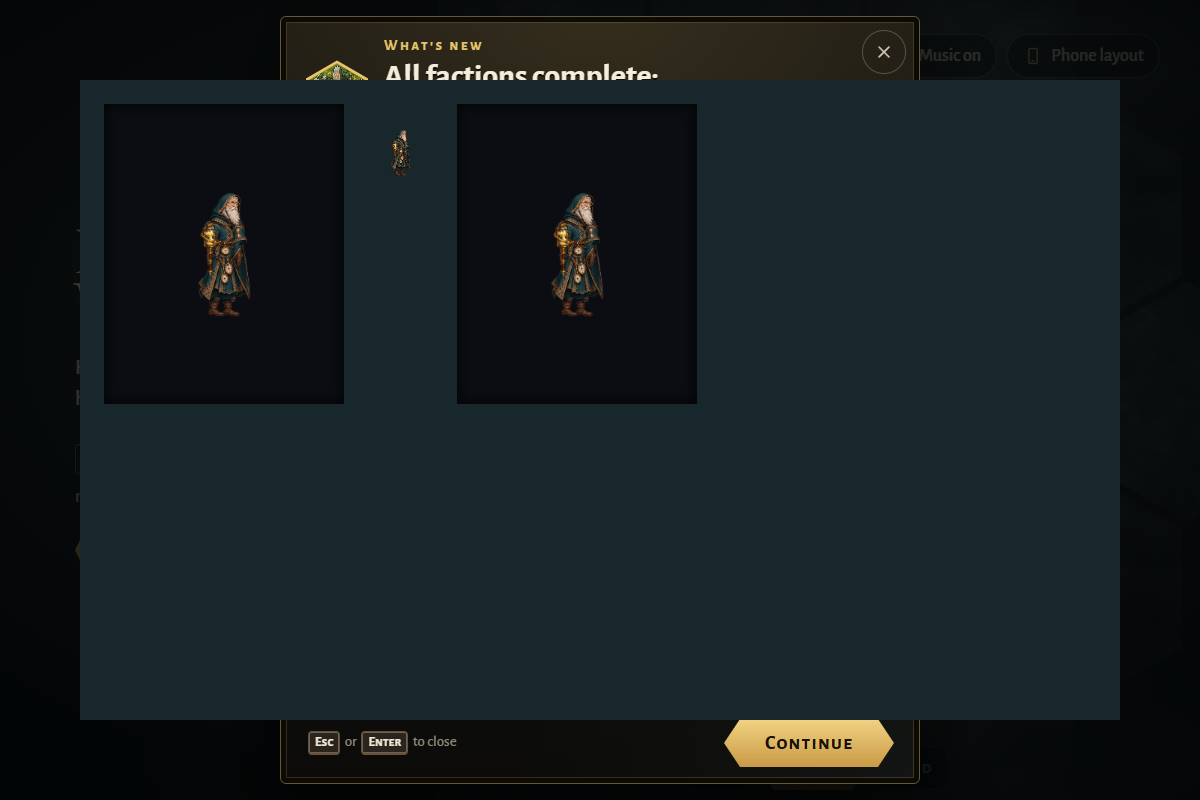
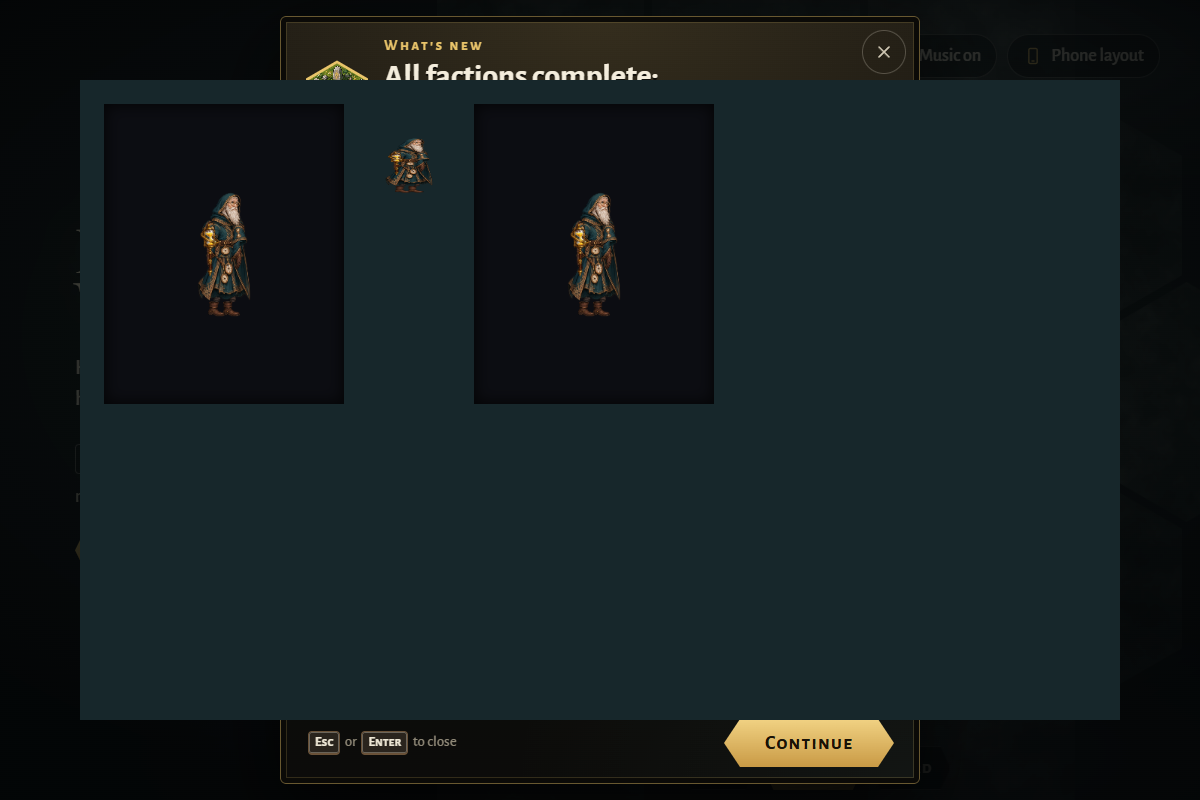
Fix reserve portraits and keep unit details clear of spawn controls

Changed region(s): [[0.555, 0.125, 0.6167, 0.5], [0.3083, 0.125, 0.4008, 0.5], [0.4625, 0.2188, 0.5242, 0.4062]]

diff --git a/public/rig-animation.js b/public/rig-animation.js
@@ -289,6 +289,26 @@
     if(!transientStarts.has(effect))transientStarts.set(effect,clock-(now-effect.t));
     return clock-transientStarts.get(effect);
   }
+  const portraitBounds=new Map();
+  let portraitBuffer;
+  function drawInlinePortrait(canvas,k,t,single){
+    if(!portraitBuffer){portraitBuffer=document.createElement('canvas');portraitBuffer.width=320;portraitBuffer.height=240;}
+    draw(portraitBuffer,k,1,'idle',t,single);
+    const key=k+':'+single;
+    if(!portraitBounds.has(key)){
+      const a=portraitBuffer.getContext('2d').getImageData(0,0,320,240).data;
+      let l=320,r=0,top=240,bottom=0;
+      for(let y=0;y<240;y++)for(let x=0;x<320;x++)if(a[(y*320+x)*4+3]>32){l=Math.min(l,x);r=Math.max(r,x);top=Math.min(top,y);bottom=Math.max(bottom,y);}
+      if(r<=l)return;
+      portraitBounds.set(key,[Math.max(0,l-10),Math.max(0,top-10),Math.min(320,r+11)-Math.max(0,l-10),Math.min(240,bottom+11)-Math.max(0,top-10)]);
+    }
+    const [x,y,w,h]=portraitBounds.get(key),ctx=canvas.getContext('2d');
+    // Match the element's aspect ratio so the bitmap is not stretched in square reserve buttons.
+    const box=canvas.getBoundingClientRect(),width=Math.max(1,box.width),height=Math.max(1,box.height);
+    const scale=Math.min(width/w,height/h);
+    const dw=w*scale/width*canvas.width,dh=h*scale/height*canvas.height;
+    ctx.clearRect(0,0,canvas.width,canvas.height);ctx.drawImage(portraitBuffer,x,y,w,h,(canvas.width-dw)/2,(canvas.height-dh)/2,dw,dh);
+  }
   function frame(now){
     const paused=document.body.classList.contains('hv-paused');
     if(!paused&&!document.hidden)clock+=Math.min(80,now-(last||now));last=now;
@@ -307,8 +327,11 @@
     // Dialog portraits must populate while gameplay is paused; the pose clock stays frozen.
     if(!document.hidden)for(const el of portraits){
       if(!el.isConnected){portraits.delete(el);portraitObserver.unobserve(el);continue;}
-      if(!portraitVisibility.get(el)||!assets.has(el.dataset.rigKey))continue;
-      el.classList.add('ready');draw(el.querySelector('canvas'),el.dataset.rigKey,1,'idle',clock,!el.closest('#draft'));
+      if(!portraitVisibility.get(el))continue;
+      if(!assets.has(el.dataset.rigKey)){ensure(el.dataset.rigKey);continue;}
+      el.classList.add('ready');
+      if(el.matches('canvas'))drawInlinePortrait(el,el.dataset.rigKey,clock,!el.closest('#draft'));
+      else draw(el.querySelector('canvas'),el.dataset.rigKey,1,'idle',clock,!el.closest('#draft'));
     }
     requestAnimationFrame(frame);
   }
@@ -348,16 +371,18 @@
     .hv-rig-portrait{display:inline-block;position:relative;vertical-align:middle}
     .hv-rig-portrait>canvas{position:absolute;left:-43.333%;top:-20%;width:186.667%;height:140%;pointer-events:none;visibility:hidden}
     .hv-rig-portrait.ready>canvas{visibility:visible}
-    .hv-inline-portrait{width:1.7em;height:2.55em}
-    .hv-inline-portrait>canvas{left:-20%;top:0;width:140%;height:100%;object-fit:contain}
+    canvas.hv-inline-portrait{position:relative;inset:auto;display:block;width:1.7em;height:2.55em;margin:0;object-fit:contain;pointer-events:none;overflow:hidden}
+    .chip>canvas.hv-inline-portrait,.ucs>canvas.hv-inline-portrait{width:100%;height:100%;max-width:100%;max-height:100%}
+    .ucs{position:relative;overflow:hidden}
+    .rchip>canvas.hv-inline-portrait,.hchip>canvas.hv-inline-portrait{width:44px;height:40px}
     .hv-current-portrait{position:absolute;inset:0;width:100%;height:100%;overflow:hidden;background:radial-gradient(ellipse at 50% 75%,#526957,#192830 75%)}
     .hv-current-portrait>canvas{left:0;top:0;width:100%;height:100%;object-fit:contain;transform:none!important}
     .hv-rig-portrait.ready>:not(canvas){visibility:hidden}
   `;document.head.appendChild(css);
   if(typeof spr==='function'){
     const oldPort=port;port=function(k){return (registry[k]||(typeof H!=='undefined'&&H[k]))?`<span class="hvf hv-rig-portrait hv-current-portrait" data-rig-key="${k}"><canvas width="320" height="240" aria-hidden="true"></canvas></span>`:oldPort(k);};
-    const oldSpr=spr;spr=function(k,s,u){const visual=displayKey(k,u);if(u&&assets.has(visual))return `<canvas class="sp pt hv-rig" data-rig-key="${visual}" width="320" height="240" aria-hidden="true"></canvas>`;if(u&&registry[visual]&&!pending.has(visual))ensure(visual);const original=oldSpr.apply(this,arguments);if(!u&&(registry[k]||(typeof H!=='undefined'&&H[k])))return `<span class="sp pt hv-rig-portrait hv-inline-portrait" data-rig-key="${k}"><canvas width="320" height="240" aria-hidden="true"></canvas></span>`;return original;};
-    const oldRender=render;render=function(){const result=oldRender.apply(this,arguments);bind();return result;};
+    const oldSpr=spr;spr=function(k,s,u){const visual=displayKey(k,u);if(u&&assets.has(visual))return `<canvas class="sp pt hv-rig" data-rig-key="${visual}" width="320" height="240" aria-hidden="true"></canvas>`;if(u&&registry[visual]&&!pending.has(visual))ensure(visual);const original=oldSpr.apply(this,arguments);if(!u&&(registry[k]||(typeof H!=='undefined'&&H[k])))return `<canvas class="sp hv-rig-portrait hv-inline-portrait" data-rig-key="${k}" width="320" height="240" aria-hidden="true"></canvas>`;return original;};
+    const oldRender=render;render=function(){const result=oldRender.apply(this,arguments);bind();scanPortraits(document);return result;};
     const oldAct=act;act=function(u,t){if(u&&t&&assets.has(u.k))facing.set(u,direction(u,t,facing.get(u)??1));return oldAct.apply(this,arguments);};
     const oldAtk=atkFx;atkFx=function(u,t){if(u.k==='mage'&&assets.has('mage')&&!RP&&!RUNFAST&&launch(u,t))return;return oldAtk.apply(this,arguments);};
   }

diff --git a/public/index.html b/public/index.html
@@ -1279,7 +1279,7 @@ html body.mob #udock .utr{width:20px;height:20px;font-size:12px}
 @media (max-width:380px){html body.mob.ingame #turn{display:none}html body.mob.ingame #mute,html body.mob.ingame #thrb,html body.mob.ingame .bar #mmenu{width:32px;height:32px;min-width:32px!important;min-height:32px!important}}
 
 /* selection card never blocks the board */
-#udock.side{left:14px!important;right:auto;bottom:14px!important;top:auto;transform:none!important}
+#udock.side{left:14px!important;right:auto;bottom:var(--hv-dock-bottom,14px)!important;top:auto;transform:none!important}
 #udock.side.uin{animation:udside .18s ease-out}
 @keyframes udside{from{opacity:0;transform:translateX(-14px)}to{opacity:1;transform:none}}
 #udock.side .uct{flex-wrap:wrap}
@@ -2665,8 +2665,10 @@ const u=S&&!S.over&&$('#game')&&!$('#game').hidden?(sel||insp):null;if(!u){if(!d
 d.innerHTML=ucard(u);if(d.hidden){d.hidden=false;d.classList.remove('uin');void d.offsetWidth;d.classList.add('uin')}placeDock(d);document.body.style.setProperty('--udh',d.classList.contains('side')||document.body.classList.contains('mob')?'0px':d.offsetHeight+'px')}
 function placeDock(d){const mob=document.body.classList.contains('mob'),br=$('#board')&&$('#board').getBoundingClientRect();d.classList.remove('side','top','pass');d.style.top='';d.style.width='';
 if(mob){const tr=document.getElementById('tray');if(tr&&d.parentNode!==tr)tr.insertBefore(d,tr.firstChild);d.classList.add('intray');return}
+if(d.parentNode!==document.body)document.body.appendChild(d);d.classList.remove('intray');
+const reserve=$('#res')?.getBoundingClientRect();d.style.setProperty('--hv-dock-bottom',reserve&&reserve.height&&reserve.top<innerHeight?Math.max(14,innerHeight-reserve.top+10)+'px':'14px');
 if(br&&br.left>=290){d.classList.add('side');d.style.width=Math.min(380,br.left-28)+'px';return}d.classList.add('pass')}
-addEventListener('resize',()=>{const d=document.getElementById('udock');if(d&&!d.hidden)placeDock(d)});addEventListener('scroll',()=>{const d=document.getElementById('udock');if(d&&!d.hidden&&d.classList.contains('top'))placeDock(d)},{passive:true});
+addEventListener('resize',()=>{const d=document.getElementById('udock');if(d&&!d.hidden)placeDock(d)});addEventListener('scroll',()=>{const d=document.getElementById('udock');if(d&&!d.hidden)placeDock(d)},{passive:true});
 function turnBanner(n){let b=document.getElementById('tbanner');if(!b){b=document.createElement('div');b.id='tbanner';document.body.appendChild(b)}
 const mine=isMine(n),go=()=>{b.style.setProperty('--tc',SCOL[n]);b.innerHTML=`<div class="tbs"></div><div class="tbt"><small>Round ${S.round}</small><b>${mine?'Your Turn':esc0(NAMES[n]||SIDEN[n])+(isAI(n)?' (AI)':'')}</b>${mine?'<small>'+S.mana[n]+' mana</small>':''}</div>`;b.className='';void b.offsetWidth;b.className='play'+(mine?' mine':'')};
 const w=(typeof cutUntil=='number'?cutUntil:0)-performance.now();clearTimeout(TBT);if(w>0)TBT=setTimeout(go,w);else go()}
